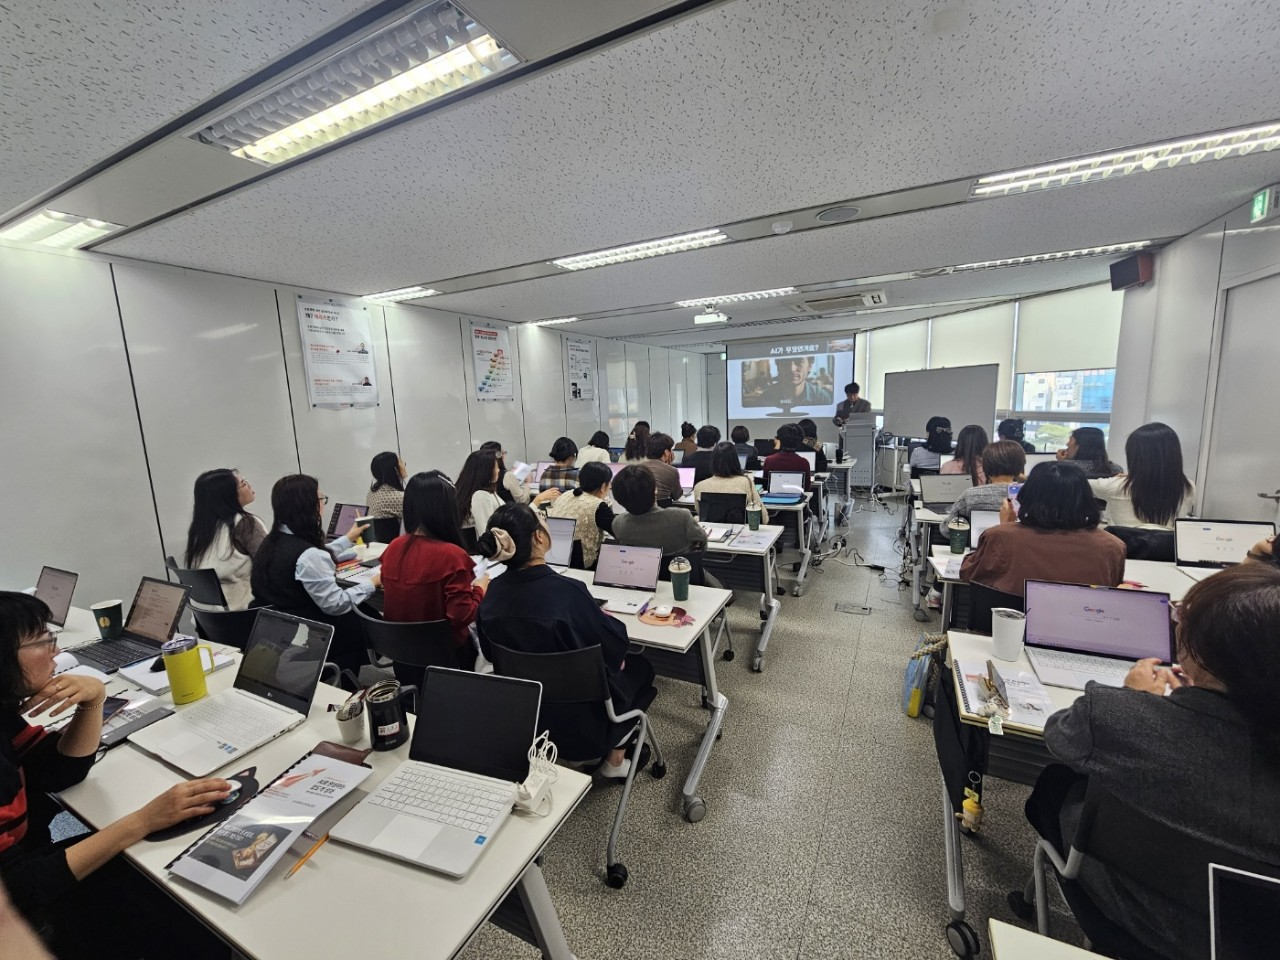
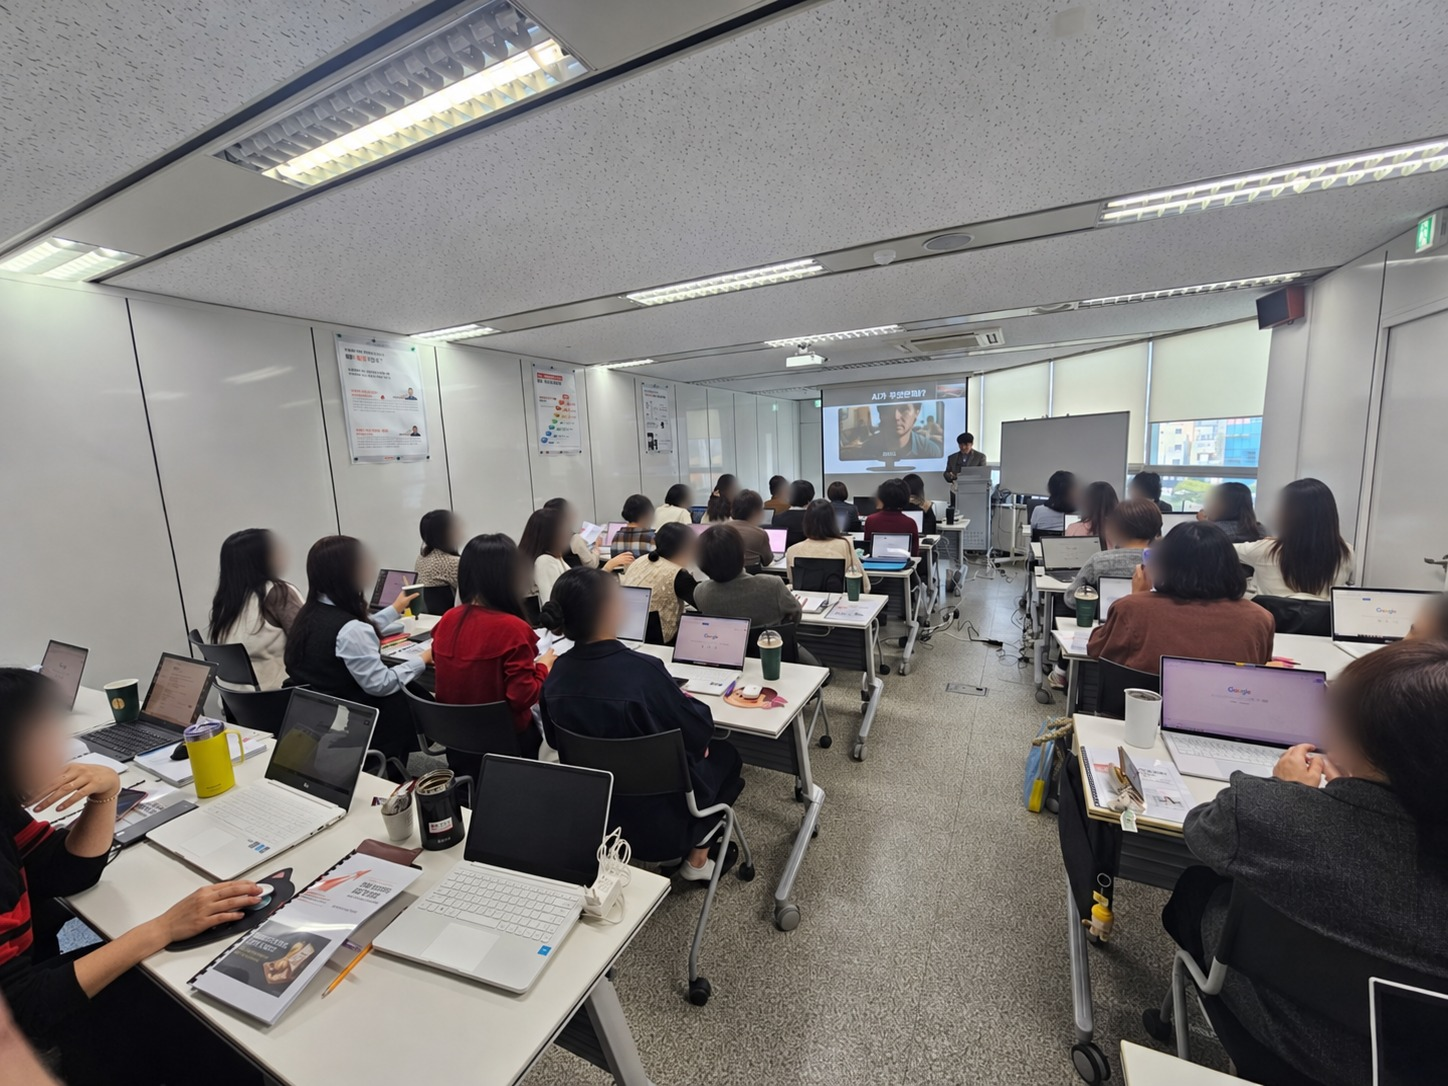
Protect learner faces and add four full-frame hero photos

diff --git a/app/hero-gallery.tsx b/app/hero-gallery.tsx
@@ -4,8 +4,12 @@ import Image from "next/image";
 import { useEffect, useRef, useState, useSyncExternalStore } from "react";
 
 const photos = [
-  { src: "/images/school-safety-class.jpg", title: "함께 배우는 학교안전", alt: "교실에서 학생들과 함께 진행하는 안전교육 현장", detail: "현장의 상황을 살펴보고 안전한 행동을 익히는 시간" },
-  { src: "/images/ai-workshop.jpg", title: "직접 익히는 AI 활용", alt: "참여자들이 노트북으로 실습하는 AI 활용교육 현장", detail: "직접 실습하며 수업과 업무에 적용하는 배움" },
+  { src: "/images/school-safety-class-privacy-v1.jpg", title: "함께 배우는 학교안전", alt: "교실에서 학생들과 함께 진행하는 안전교육 현장", detail: "현장의 상황을 살펴보고 안전한 행동을 익히는 시간" },
+  { src: "/images/ai-workshop-privacy-v1.jpg", title: "직접 익히는 AI 활용", alt: "참여자들이 노트북으로 실습하는 AI 활용교육 현장", detail: "직접 실습하며 수업과 업무에 적용하는 배움" },
+  { src: "/images/hero-fire-safety-privacy-v1.jpg", title: "소화기 사용 실습", alt: "운동장에서 참여자들이 지켜보는 가운데 소화기 사용을 실습하는 모습", detail: "직접 연습하며 익히는 소방안전" },
+  { src: "/images/hero-school-session-privacy-v1.jpg", title: "학교 단체교육", alt: "체육관에 모인 학생들이 무대의 교육 화면을 함께 살펴보는 모습", detail: "함께 듣고 배우는 학교 교육 현장" },
+  { src: "/images/hero-workplace-safety-privacy-v1.jpg", title: "건설업 안전보건교육", alt: "안전모를 준비한 참여자들이 교실에서 건설업 안전보건교육을 듣는 모습", detail: "작업 현장과 연결하는 안전교육" },
+  { src: "/images/hero-media-practice-privacy-v1.jpg", title: "디지털 장비 활용", alt: "컴퓨터와 방송 장비를 함께 살펴보는 참여자들의 모습", detail: "디지털 장비를 함께 살펴보는 시간" },
 ];
 
 function subscribeMotion(change: () => void) {

diff --git a/app/globals.css b/app/globals.css
@@ -220,7 +220,7 @@ body { color: #142230; background: #f7f8f4; }
 .home-hero :focus-visible { outline-color: #dffec6; }
 @media (min-width: 60rem) {
   .home-hero-layout { display: block; width: 100%; min-height: max(48rem, calc(100svh - 5rem)); }
-  .home-hero-content { display: flex; flex-direction: column; justify-content: center; min-height: inherit; padding-block: 5rem 15rem; pointer-events: none; }
+  .home-hero-content { display: flex; flex-direction: column; justify-content: center; min-height: inherit; padding-block: 5rem 18rem; pointer-events: none; }
   .home-hero-content a { pointer-events: auto; }
   .home-hero h1 { max-width: 47rem; font-size: clamp(3rem, 4.7vw, 5rem); text-shadow: 0 2px 20px #0005; }
   .home-hero-copy { max-width: 36rem; text-shadow: 0 1px 10px #000a; }
@@ -229,9 +229,9 @@ body { color: #142230; background: #f7f8f4; }
   .hero-gallery-stage { position: absolute; inset: 0; aspect-ratio: auto; }
   .hero-gallery-stage::after { content: ""; position: absolute; inset: 0; pointer-events: none; background: linear-gradient(90deg, #03121be0 0%, #03121b80 36%, #03121b00 76%), linear-gradient(0deg, #03121bf5, transparent 42%); }
   .hero-gallery-label { display: none; }
-  .hero-gallery-footer { position: absolute; inset: auto 0 5.5rem; width: min(72rem, calc(100% - 6rem)); margin-inline: auto; padding: 0; }
+  .hero-gallery-footer { position: absolute; inset: auto 0 10.5rem; width: min(72rem, calc(100% - 6rem)); margin-inline: auto; padding: 0; }
   .hero-gallery-caption { flex: 0 1 32rem; }
-  .hero-gallery-tabs { position: absolute; inset: auto 0 1.5rem; width: min(72rem, calc(100% - 6rem)); margin-inline: auto; padding: 0; grid-template-columns: repeat(2, minmax(0, 14rem)); }
+  .hero-gallery-tabs { position: absolute; inset: auto 0 1.5rem; width: min(72rem, calc(100% - 6rem)); margin-inline: auto; padding: 0; grid-template-columns: repeat(3, minmax(0, 14rem)); }
   .hero-gallery-tabs button { background: #071b25b3; }
 }
 @media (prefers-reduced-motion: reduce) {

diff --git a/app/seo.ts b/app/seo.ts
@@ -6,7 +6,7 @@ export const productionIndexing = process.env.VERCEL_ENV === "production" || (!p
 
 export function pageMetadata(path: string, title: string, description: string, indexable = true): Metadata {
   const url = canonicalUrl(path);
-  const image = { url: `${siteUrl}/images/school-safety-class.jpg`, width: 4032, height: 3024, alt: "학생들과 함께하는 현주에듀랩 안전교육 현장" };
+  const image = { url: `${siteUrl}/images/school-safety-class-privacy-v1.jpg`, width: 1448, height: 1086, alt: "학생들과 함께하는 현주에듀랩 안전교육 현장" };
   return {
     title,
     description,

diff --git a/app/page.tsx b/app/page.tsx
@@ -106,7 +106,7 @@ export default function Home() {
         <div className="shell home-studio-grid">
           <figure className="home-studio-image">
             <Image
-              src="/images/ai-workshop.jpg"
+              src="/images/ai-workshop-privacy-v1.jpg"
               alt="참여자들이 노트북으로 실습하는 AI 활용교육 현장"
               fill
               sizes="(min-width: 960px) 50vw, 100vw"

diff --git a/app/about/page.tsx b/app/about/page.tsx
@@ -59,7 +59,7 @@ export default function AboutPage() {
         </div>
         <figure className="about-photo">
           <Image
-            src="/images/school-safety-class.jpg"
+            src="/images/school-safety-class-privacy-v1.jpg"
             alt="교실에서 학생들과 안전 상황을 살펴보는 교육 현장"
             fill
             sizes="(min-width: 896px) 550px, 90vw"

diff --git a/README.md b/README.md
@@ -198,7 +198,15 @@ npm start
 
 ## 메인 히어로 사진 전환
 
-- 저장소에서 접근 가능한 학교안전·AI 실습 사진 2장을 app/hero-gallery.tsx에서 전환한다. 이전에 제공된 다른 사진 4장의 원본은 현재 로컬 경로에서 확인되지 않아 포함하지 않았다.
+- 기존 학교안전·AI 실습 사진과 새 소화기 실습·학교 단체교육·건설업 안전교육·디지털 장비 실습 사진을 합쳐 6장을 app/hero-gallery.tsx에서 전환한다.
 - 원본 비율을 보존하는 object-fit: contain을 사용한다. PC에서는 사진이 히어로 전체 너비를 차지하고 문구·조작은 그 위에 겹친다. 여백은 같은 사진의 흐림 배경으로 연결한다. 휴대폰에서는 전체 너비 사진을 먼저 표시한다. 카드 테두리와 좌우 분할은 제거했다. 사진 선택, 이전·다음, 방향키, 자동 전환·일시정지를 지원한다.
 - 자동 전환 간격은 6.5초, 불투명도 전환은 1.1초다. 마우스·포커스·화면 영역과 탭 표시 상태에 따라 전환을 멈춘다. 동작 줄이기 설정에서는 자동 전환과 전환 효과를 비활성화한다.
 - 기존 테스트 37개·린트·프로덕션 빌드·타입 검사를 통과했다. Chrome 320·390·768·1280·1600px에서 사진 무대의 좌우 여백 0·화면 전체 너비·모바일 사진 우선 배치·사진 로딩·원본 비율·버튼·키보드·동작 줄이기·가로 넘침·기존 링크·전화번호 숨김을 검수하고 자동 전환과 일시정지를 확인했다. 실제 모바일 기기·Safari·스크린리더 검수는 미실시다.
+
+## 공개 사진 얼굴 보호 (2026-11-28)
+
+- 학생과 수강생의 식별 가능한 얼굴은 이미지 파일 자체에 흐림 처리했다. 강사와 교육 장면은 최대한 보존했다. CSS 배경 흐림과 얼굴 보호 처리는 별개다.
+- 이미지 편집: 내장 imagegen 도구에 얼굴의 강한 흐림, 구도·의상·장비·강사 보존을 지시했다. 건설업 교육 사진은 출입문 옆 서 있는 수강생 얼굴도 추가 처리했다. 편집 결과를 검수하고 sharp로 JPEG 형식으로 저장했다.
+- 공개 파일: public/images/school-safety-class-privacy-v1.jpg, ai-workshop-privacy-v1.jpg, hero-fire-safety-privacy-v1.jpg, hero-school-session-privacy-v1.jpg, hero-workplace-safety-privacy-v1.jpg, hero-media-practice-privacy-v1.jpg.
+- 히어로·메인 소개·강사 소개·OG/Twitter는 새 파일명을 참조한다. 기존 school-safety-class.jpg와 ai-workshop.jpg도 동일한 처리본으로 교체해 이전 URL을 보호한다. 새 사진의 미처리 공개 사본은 제거했고 원본은 저장소와 공개 폴더 밖에 별도 보존했다.
+- 최종 검증: npm run verify(37개 테스트·린트·운영 빌드·타입 검사) 통과. Chrome 320·390·768·1280·1600px에서 6장 로딩·전체 구도·새 이미지 경로·OG·가로 넘침·기존 링크·전화번호 숨김·키보드·동작 줄이기·자동 전환과 일시정지를 확인했다. 기존 2개 사진 URL과 새 처리본의 바이트 일치도 확인했다.
